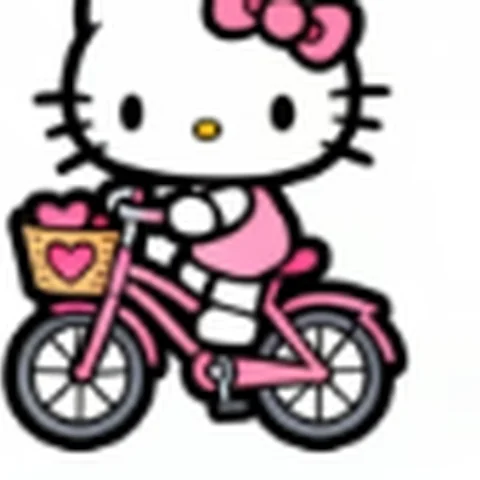
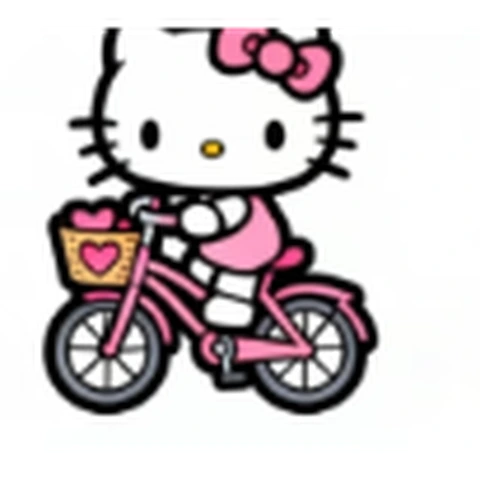
feat: 健身图标换为素材中的自行车 + 顶部去登录同步 + 健身页云卡移到页底
【1】健身图标：使用素材.png 第2行第1列的自行车图标（Hello Kitty 骑粉色自行车带花篮），
通过 PIL 裁剪为正方形并按其他模块的 7 套标准尺寸生成：
  tiny(48) small(96) thumb(128) medium(180) card(240) header(320) hero(480)
同时生成 hero.webp。视觉大小与其他模块完全一致。

【2】去掉顶部'☁ 登录同步'按钮：index.html 删除 mobile-cloud-btn 整段
代码；app.js 移除 mobile-cloud 点击监听；css 不再做毛玻璃悬浮效果。
云同步入口仅保留：PC 顶栏 + 移动端 ⋯ 菜单 → 云同步 两处。

【3】修复模块文字被遮挡：mobile-header 由 position:sticky 改为 position:relative
（普通流，不再悬浮遮挡内容），同时 .app-main 在移动端 top:0 → top:76px，
.page 的上下 padding 也调整，确保每个模块的完整页面都能显示。
   SW 缓存版本升至 v2.7.0 强制刷新。

【4】健身页云同步状态卡：从 banner 下方移到页面最底部，
与统计概览等模块同级，方便用户在看完数据后再决定是否登录。

diff --git a/css/main.css b/css/main.css
@@ -404,31 +404,18 @@ body {
 /* 移动端顶部栏 — sticky 浮在内容上方，避免被 banner/卡片穿透遮挡 */
 .mobile-header {
   display: none;
-  position: sticky;
-  top: 0;
-  z-index: 150;
+  position: relative;             /* 普通流，不悬浮在内容之上 */
   padding: calc(env(safe-area-inset-top, 0) + 10px) 14px 10px;
   align-items: center;
   justify-content: space-between;
-  background: rgba(255, 255, 255, 0.78);
-  backdrop-filter: blur(18px) saturate(140%);
-  -webkit-backdrop-filter: blur(18px) saturate(140%);
+  background: rgba(255, 255, 255, 0.88);
   border-bottom: 1px solid var(--border-soft);
 }
 [data-theme="dark"] .mobile-header {
-  background: rgba(45, 32, 60, 0.78);
+  background: rgba(45, 32, 60, 0.88);
 }
-.mobile-header::after {
-  content: "";
-  position: absolute;
-  left: 0; right: 0; bottom: -20px;
-  height: 20px;
-  background: linear-gradient(to bottom, rgba(255,255,255,0.45), transparent);
-  pointer-events: none;
-}
-[data-theme="dark"] .mobile-header::after {
-  background: linear-gradient(to bottom, rgba(45,32,60,0.45), transparent);
-}
+/* 去掉原来的 ::after 渐变阴影（普通流不需要） */
+.mobile-header::after { content: none; }
 
 .mobile-header-left {
   display: flex;
@@ -999,6 +986,13 @@ body {
   .pc-sidebar { display: none; }
   .mobile-header { display: flex; }
   .bottom-nav { display: flex; }
+  /* 顶部栏在文档流中占空间，让主内容区从它下面开始（避免遮挡模块文字） */
+  .app-main {
+    top: 76px;
+  }
+  .page {
+    padding: 16px 16px 96px;
+  }
 }
 
 /* ============ 通用工具 ============ */
@@ -1067,7 +1061,7 @@ body {
   align-items: center;
   gap: 12px;
   padding: 14px 16px;
-  margin-bottom: 16px;
+  margin: 20px 0 16px;       /* 放到页面底部时与上方模块拉开间距 */
   border-radius: var(--radius-lg);
   background: linear-gradient(135deg, rgba(255, 198, 213, 0.55) 0%, rgba(255, 214, 235, 0.75) 50%, rgba(184, 216, 232, 0.55) 100%);
   border: 1px solid rgba(255, 143, 188, 0.3);

diff --git a/index.html b/index.html
@@ -66,7 +66,7 @@
     </div>
     <nav class="pc-nav">
       <a href="#fitness" class="pc-nav-item active" data-page="fitness">
-        <span class="nav-ico"><img src="assets/img/kitty/kitty-blocks-tiny.png" alt="健身" /></span><span class="nav-label">健身打卡</span>
+        <span class="nav-ico"><img src="assets/img/kitty/kitty-bike-tiny.png" alt="健身" /></span><span class="nav-label">健身打卡</span>
       </a>
       <a href="#wellness" class="pc-nav-item" data-page="wellness">
         <span class="nav-ico"><img src="assets/img/kitty/kitty-tea-tiny.png" alt="养生" /></span><span class="nav-label">养生打卡</span>
@@ -106,9 +106,6 @@
       </div>
     </div>
     <div class="mobile-header-right">
-      <button class="mobile-cloud-btn is-pulse" id="mobile-cloud" title="云同步：登录 GitHub 同步数据">
-        <span data-sync-badge class="sync-badge sync-guest">☁ 登录同步</span>
-      </button>
       <button class="mobile-icon-btn" id="mobile-theme-toggle" title="主题">🌗</button>
       <button class="mobile-icon-btn" id="mobile-more" title="更多">⋯</button>
     </div>
@@ -130,7 +127,7 @@
   <!-- 移动端底部导航 -->
   <nav class="bottom-nav" aria-label="底部导航">
     <a href="#fitness" class="bottom-nav-item active" data-page="fitness">
-      <span class="bottom-ico"><img src="assets/img/kitty/kitty-blocks-tiny.png" alt="健身" /></span>
+      <span class="bottom-ico"><img src="assets/img/kitty/kitty-bike-tiny.png" alt="健身" /></span>
       <span class="bottom-label">健身打卡</span>
     </a>
     <a href="#wellness" class="bottom-nav-item" data-page="wellness">

diff --git a/sw.js b/sw.js
@@ -1,7 +1,7 @@
 /* Hello Kitty 治愈工作台 — Service Worker
    离线优先缓存策略 + Kitty 立绘缓存 */
 
-const CACHE_NAME = 'kitty-wb-v2.6.0';
+const CACHE_NAME = 'kitty-wb-v2.7.0';
 const STATIC_ASSETS = [
   './',
   './index.html',
@@ -24,13 +24,14 @@ const STATIC_ASSETS = [
   './assets/img/icon-192.png',
   './assets/img/icon-512.png',
   // Kitty 立绘（5 大模块主图，多尺寸）
-  './assets/img/kitty/kitty-blocks-tiny.png',
-  './assets/img/kitty/kitty-blocks-small.png',
-  './assets/img/kitty/kitty-blocks-thumb.png',
-  './assets/img/kitty/kitty-blocks-medium.png',
-  './assets/img/kitty/kitty-blocks-card.png',
-  './assets/img/kitty/kitty-blocks-header.png',
-  './assets/img/kitty/kitty-blocks-hero.webp',
+  './assets/img/kitty/kitty-bike-tiny.png',
+  './assets/img/kitty/kitty-bike-small.png',
+  './assets/img/kitty/kitty-bike-thumb.png',
+  './assets/img/kitty/kitty-bike-medium.png',
+  './assets/img/kitty/kitty-bike-card.png',
+  './assets/img/kitty/kitty-bike-header.png',
+  './assets/img/kitty/kitty-bike-hero.png',
+  './assets/img/kitty/kitty-bike-hero.webp',
   './assets/img/kitty/kitty-tea-tiny.png',
   './assets/img/kitty/kitty-tea-small.png',
   './assets/img/kitty/kitty-tea-thumb.png',

diff --git a/modules/fitness.js b/modules/fitness.js
@@ -55,8 +55,6 @@ const Fitness = {
           `
         })}
 
-        ${this._renderCloudBanner()}
-
         <div class="kitty-feature-card" style="margin-bottom:16px">
           <div class="kitty-portrait" style="background:linear-gradient(135deg,#c8e6c9,#b8d8e8)">${Utils.kittyImg({ size: 'small', module: 'fitness' })}</div>
           <div class="lfc-text">
@@ -134,6 +132,8 @@ const Fitness = {
         <div style="text-align:center;padding:16px;font-size:11px;color:var(--text-muted)">
           数据来源：iOS 健身 + 手动记录 · 已云端同步 🌸
         </div>
+
+        ${this._renderCloudBanner()}
       </div>
     `;
 

diff --git a/js/app.js b/js/app.js
@@ -120,11 +120,6 @@ const App = {
     if (greet) greet.textContent = Utils.greeting();
     if (date) date.textContent = Utils.formatToday();
 
-    // 移动端独立云同步按钮（最显眼入口）— 直接打开登录弹窗
-    document.getElementById('mobile-cloud')?.addEventListener('click', () => {
-      this.openCloudDialog();
-    });
-
     // 导出按钮
     document.getElementById('pc-export')?.addEventListener('click', () => this.exportData());
     document.getElementById('mobile-more-menu')?.querySelector('[data-action="export"]')?.addEventListener('click', () => {

diff --git a/js/utils.js b/js/utils.js
@@ -268,7 +268,7 @@ const Utils = {
   // ============================================================
   // 模块 → 场景映射
   KITTY_MODULES: {
-    fitness:  { main: 'blocks',       alt: 'blocks',       backup: 'airplane' },
+    fitness:  { main: 'bike',         alt: 'bike',         backup: 'scooter' },
     wellness: { main: 'tea',          alt: 'tea',          backup: 'cloud-sleep' },
     study:    { main: 'book',         alt: 'book',         backup: 'notebook' },
     fortune:  { main: 'star-sleep',   alt: 'star-sleep',   backup: 'snowglobe-pink' },
